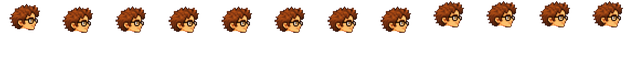
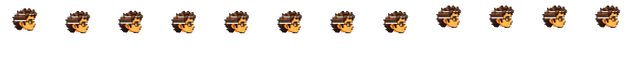
capas: cada cabeza con su hobbit (Adrián y Juan Pablo estaban cambiados)
Claude-Session: https://claude.ai/code/session_016LDX8s9ZoDhMCEDmCMU4bZ

diff --git a/public/index.html b/public/index.html
@@ -221,7 +221,7 @@ var SB_KEY = 'sb_publishable_1-eGqPkYOPKsW-ZEtUBo7A_16RQQGdK';
 var ATAJO = 'La Otra Comunidad';
 var STEPS_PER_KM = 1350, TOTAL_KM = 115;
 var LUGAR = {nombre:'Madrid', lat:40.43, lon:-3.81};
-var M = {"tramos": [[{"src": "assets/tramos/t1v_0.webp?v=162fa4d7", "y": -192, "v": 0.4, "hd": 3, "espejo": true}, {"src": "assets/tramos/t1v_1.webp?v=4642bb2a", "y": 209, "v": 1.0, "hd": 3, "espejo": true}], [{"src": "assets/tramos/t2v_0.webp?v=2ac7595f", "y": -192, "v": 0.4, "hd": 3, "espejo": true}, {"src": "assets/tramos/t2v_1.webp?v=07659e6a", "y": 209, "v": 1.0, "hd": 3, "espejo": true}], [{"src": "assets/tramos/t3v_0.webp?v=fb33aab2", "y": -192, "v": 0.4, "hd": 3, "espejo": true}, {"src": "assets/tramos/t3v_1.webp?v=42750449", "y": 209, "v": 1.0, "hd": 3, "espejo": true}], [{"src": "assets/tramos/t4v_0.webp?v=c2718a9c", "y": -192, "v": 0.4, "hd": 3, "espejo": true}, {"src": "assets/tramos/t4v_1.webp?v=0b370de7", "y": 209, "v": 1.0, "hd": 3, "espejo": true}], [{"src": "assets/tramos/t5_0.webp?v=f06aecc3", "y": 0, "v": 0.08}, {"src": "assets/tramos/t5_1.webp?v=f3abdd6c", "y": 31, "v": 0.3}, {"src": "assets/tramos/t5_2.webp?v=5110b3be", "y": 85, "v": 0.55}, {"src": "assets/tramos/t5_3.webp?v=a1aa4814", "y": 192, "v": 1.0}], [{"src": "assets/tramos/t6v_0.webp?v=380a0d06", "y": -192, "v": 0.4, "hd": 3, "espejo": true}, {"src": "assets/tramos/t6v_1.webp?v=ff66a92b", "y": 209, "v": 1.0, "hd": 3, "espejo": true}], [{"src": "assets/tramos/t7b_0.webp?v=4c93d6ac", "y": -192, "v": 0.4, "hd": 3, "espejo": true}, {"src": "assets/tramos/t7b_1.webp?v=16982fdd", "y": 210, "v": 1.0, "hd": 3, "espejo": true}], [{"src": "assets/tramos/t8b_0.webp?v=e0185a6c", "y": -192, "v": 0.4, "hd": 3, "espejo": true}, {"src": "assets/tramos/t8b_1.webp?v=5989f657", "y": 210, "v": 1.0, "hd": 3, "espejo": true}]], "arturo": ["assets/pj/arturo_normal.webp?v=7db8d380", "assets/pj/arturo_lluvia.webp?v=410e29f0", "assets/pj/arturo_noche.webp?v=a85f8b09", "assets/pj/arturo_calor.webp?v=5248314d"], "vecinos": ["assets/pj/vecino_1.webp?v=8c5299d1", "assets/pj/vecino_2.webp?v=0ad454f5", "assets/pj/vecino_3.webp?v=7460ffb8", "assets/pj/vecino_4.webp?v=a9dbcc5b"], "faces": "assets/pj/caras9.webp?v=749b1655", "logo": "assets/logo.webp?v=6e5698e6", "mj": {"pan": "assets/mj/zurron_pan.webp?v=eef983d0", "manta": "assets/mj/zurron_manta.webp?v=496c23db", "cuerda": "assets/mj/zurron_cuerda.webp?v=01c52897", "cantimplora": "assets/mj/zurron_cantimplora.webp?v=834316a1", "queso": "assets/mj/zurron_queso.webp?v=7897f985", "mapa": "assets/mj/zurron_mapa.webp?v=77a52314", "farol": "assets/mj/zurron_farol.webp?v=503f7f85", "pipa": "assets/mj/zurron_pipa.webp?v=ff72de42", "sillon": "assets/mj/zurron_sillon.webp?v=e2de97af", "reloj": "assets/mj/zurron_reloj.webp?v=f2e9850f", "cucharas": "assets/mj/zurron_cucharas.webp?v=ddf4903c", "paraguas": "assets/mj/zurron_paraguas.webp?v=29a8c29a", "jarron": "assets/mj/zurron_jarron.webp?v=0e426668", "libraco": "assets/mj/zurron_libraco.webp?v=d1d0c91f", "arbol": "assets/mj/arbol.webp?v=1d1e130a", "jinete1": "assets/mj/jinete1.webp?v=1bdb694e", "jinete2": "assets/mj/jinete2.webp?v=3dc1bbb4", "anillo": "assets/mj/anillo.webp?v=f785c169", "seta1": "assets/mj/seta1.webp?v=9166bdf3", "seta2": "assets/mj/seta2.webp?v=93212779", "seta3": "assets/mj/seta3.webp?v=a212aa81", "perro1": "assets/mj/perro1.webp?v=69bf8c3a", "perro2": "assets/mj/perro2.webp?v=b3a10435", "perro3": "assets/mj/perro3.webp?v=a5e4e2f7", "hoyo": "assets/mj/hoyo.webp?v=d29f43a1", "balsa1": "assets/mj/balsa1.webp?v=d45a7f5d", "balsa2": "assets/mj/balsa2.webp?v=d2719116", "rio": "assets/mj/rio.webp?v=aafc6b10", "muelle": "assets/mj/muelle.webp?v=592eaa57", "sombra": "assets/mj/sombra.webp?v=0652e012", "juncos": "assets/mj/juncos.webp?v=74e1fdc4"}, "papiro": "assets/papiro.webp?v=abe066ba", "andar": {"src": "assets/pj/arturo_andar.webp?v=7e62a290", "n": 6, "fw": 53.0, "h": 74}, "mapa": {"src": "assets/mapa.webp?v=9368dc78", "w": 1024, "h": 3796, "ruta": [[508, 3770], [508, 3761], [510, 3753], [514, 3737], [520, 3723], [529, 3712], [542, 3703], [556, 3696], [573, 3689], [592, 3681], [609, 3671], [622, 3660], [629, 3649], [634, 3636], [637, 3626], [639, 3617], [645, 3610], [654, 3602], [664, 3594], [672, 3584], [681, 3573], [689, 3561], [692, 3548], [690, 3534], [687, 3522], [677, 3509], [664, 3498], [650, 3488], [637, 3482], [621, 3476], [605, 3471], [589, 3467], [571, 3462], [553, 3458], [535, 3454], [518, 3450], [502, 3446], [487, 3441], [473, 3436], [459, 3430], [447, 3423], [438, 3414], [433, 3403], [434, 3391], [437, 3379], [441, 3367], [440, 3355], [433, 3344], [421, 3333], [407, 3323], [393, 3314], [383, 3304], [377, 3293], [379, 3280], [386, 3268], [398, 3256], [417, 3246], [437, 3238], [457, 3232], [476, 3225], [496, 3219], [516, 3212], [534, 3205], [549, 3194], [564, 3183], [578, 3172], [590, 3162], [602, 3154], [616, 3148], [631, 3142], [643, 3134], [652, 3125], [658, 3115], [657, 3104], [649, 3094], [638, 3084], [627, 3076], [614, 3068], [602, 3058], [596, 3047], [594, 3036], [597, 3025], [605, 3015], [619, 3008], [635, 3002], [651, 2993], [666, 2983], [677, 2971], [682, 2957], [682, 2942], [676, 2930], [665, 2918], [651, 2908], [636, 2900], [618, 2894], [600, 2888], [582, 2883], [563, 2878], [545, 2873], [527, 2869], [510, 2863], [496, 2856], [488, 2847], [483, 2843], [480, 2837], [500, 2784], [516, 2740], [516, 2690], [532, 2640], [544, 2590], [544, 2540], [552, 2496], [564, 2460], [544, 2420], [552, 2384], [532, 2344], [502, 2315], [501, 2285], [513, 2255], [538, 2225], [559, 2195], [563, 2165], [563, 2135], [525, 2105], [514, 2075], [515, 1955], [556, 1925], [583, 1895], [547, 1865], [504, 1835], [544, 1805], [553, 1775], [530, 1745], [530, 1715], [547, 1685], [579, 1625], [516, 1595], [510, 1565], [536, 1475], [574, 1445], [605, 1415], [582, 1385], [498, 1355], [531, 1295], [566, 1265], [554, 1235], [565, 1145], [595, 1005], [619, 975], [584, 945], [516, 855], [556, 825], [585, 795], [551, 765], [508, 735], [501, 705], [471, 645], [530, 615], [563, 585], [528, 465], [483, 435], [423, 405], [422, 375], [459, 345], [509, 315], [574, 255], [541, 105], [564, 75], [528, 45], [499, 15], [499, 0]], "lugares": [[0, "Bols\u00f3n Cerrado", 3760], [5, "Delagua", 3310], [15, "Colinas Verdes", 3160], [35, "Bosque Cerrado", 2900], [55, "Atajo", 2730], [75, "La granja", 2640], [90, "Calzada", 2530], [110, "Balsadera", 2475], [115, "Cricava", 2350], [120, "La Cerca", 2010], [130, "Bosque Viejo", 1800], [145, "El Tornasauce", 1530], [150, "Casa de Tom Bombadil", 1440], [175, "Quebradas de los T\u00famulos", 1250], [200, "Camino del Este", 1155], [210, "Bree", 1085], [225, "Bosque de Chet", 975], [250, "Pantanos de Moscagua", 915], [370, "Cima de los Vientos", 690], [530, "Puente \u00daltimo", 530], [600, "Landas de los Trolls", 410], [720, "Vado del Bruinen", 300], [740, "Rivendel", 70]]}, "equipo": {"capa": "assets/eq/capa.webp?v=0122b549", "sombrero": "assets/eq/sombrero.webp?v=f7dfac1a", "panuelo_sam": "assets/eq/panuelo_sam.webp?v=1a80a564", "cazo": "assets/eq/cazo.webp?v=22f7f48c", "broche": "assets/eq/broche.webp?v=6109e8ac", "panuelo_rojo": "assets/eq/panuelo_rojo.webp?v=fd15a308", "cantimplora_cinto": "assets/eq/cantimplora_cinto.webp?v=00c887d2", "pluma": "assets/eq/pluma.webp?v=1d6b2dd4", "gafas": "assets/eq/gafas.webp?v=0f0b85f1", "tiara": "assets/eq/tiara.webp?v=7de8e48f"}, "prologo": {"video": "assets/prologo/prologo.mp4?v=6f226176", "poster": "assets/prologo/poster.webp?v=0afee73e", "casa": "assets/prologo/casa.webp?v=e13a1dd5"}, "ilustraciones": ["assets/prologo/forja.webp?v=3a138e40", "assets/prologo/anillo.webp?v=0773b67f", "assets/prologo/guerra.webp?v=3dbb76a0", "assets/prologo/caido.webp?v=3f00fc99", "assets/prologo/rio.webp?v=f0525166", "assets/prologo/cueva.webp?v=53a6de1b", "assets/prologo/puerta.webp?v=9be18752", "assets/prologo/camino.webp?v=8554a997"], "npc": {"mago": ["assets/pj/mago_normal.webp?v=2dcb7716", "assets/pj/mago_lluvia.webp?v=3e964785", "assets/pj/mago_noche.webp?v=f6641a57", "assets/pj/mago_calor.webp?v=c90085e7"], "sombrero_azul": ["assets/pj/sombrero_azul_normal.webp?v=49dc044e", "assets/pj/sombrero_azul_lluvia.webp?v=dd90bf2a", "assets/pj/sombrero_azul_noche.webp?v=cf98f05d", "assets/pj/sombrero_azul_calor.webp?v=d65dd5f8"]}, "libro": {"0": "assets/libro/p1.webp?v=ef869ff9", "1": "assets/libro/p2.webp?v=6100887a", "2": "assets/libro/p3.webp?v=f87fd195", "3": "assets/libro/p4.webp?v=8c0c0014", "4": "assets/libro/p5.webp?v=a47588b7", "5": "assets/libro/p6.webp?v=7950004b", "6": "assets/libro/p7.webp?v=d7e44576", "7": "assets/libro/p8.webp?v=6766a419"}, "ropa": {"pantalon": "assets/pj/ropa_pantalon.webp?v=c61a7146", "capa": "assets/pj/ropa_capa.webp?v=e1faa8bf", "capa_f": "assets/pj/ropa_capa_f.webp?v=0c709b85", "capaFrame": {"fw": 84, "ox": -31}}, "props": {"senal": "assets/props/senal.webp?v=e7b2f572", "ovejas": "assets/props/ovejas.webp?v=311f376f", "carretilla": "assets/props/carretilla.webp?v=056e52f2", "piedra": "assets/props/piedra.webp?v=b27db386", "lena": "assets/props/lena.webp?v=4165f85f", "colmenas": "assets/props/colmenas.webp?v=b70b723c", "valla": "assets/props/valla.webp?v=4d295390", "setas": "assets/props/setas.webp?v=ce1dae4d", "pozo": "assets/props/pozo.webp?v=037c838e", "banco": "assets/props/banco.webp?v=c317202b", "zorro": "assets/props/zorro.webp?v=2bfaa8b8", "carro_heno": "assets/props/carro_heno.webp?v=d90f13e9"}, "escenas": [{"km": 9, "capas": [{"src": "assets/tramos/e09v_0.webp?v=9b272767", "y": -192, "v": 0.4, "hd": 3, "espejo": true}, {"src": "assets/tramos/e09v_1.webp?v=626f2e28", "y": 209, "v": 1.0, "hd": 3, "espejo": true}]}, {"km": 25, "capas": [{"src": "assets/tramos/e25_0.webp?v=f874360c", "y": -192, "v": 0.4, "hd": 3, "espejo": true}, {"src": "assets/tramos/e25_1.webp?v=dc8516e2", "y": 209, "v": 1.0, "hd": 3, "espejo": true}]}, {"km": 45, "capas": [{"src": "assets/tramos/e45_0.webp?v=0c496962", "y": -192, "v": 0.4, "hd": 3, "espejo": true}, {"src": "assets/tramos/e45_1.webp?v=f8b71963", "y": 209, "v": 1.0, "hd": 3, "espejo": true}]}, {"km": 65, "capas": [{"src": "assets/tramos/e65_0.webp?v=a730a4cb", "y": -192, "v": 0.4, "hd": 3, "espejo": true}, {"src": "assets/tramos/e65_1.webp?v=af390ea6", "y": 209, "v": 1.0, "hd": 3, "espejo": true}]}, {"km": 80, "capas": [{"src": "assets/tramos/e80_0.webp?v=2ae90a84", "y": -192, "v": 0.4, "hd": 3, "espejo": true}, {"src": "assets/tramos/e80_1.webp?v=656134e8", "y": 209, "v": 1.0, "hd": 3, "espejo": true}]}, {"km": 100, "capas": [{"src": "assets/tramos/e100_0.webp?v=96b4d4c3", "y": -192, "v": 0.4, "hd": 3, "espejo": true}, {"src": "assets/tramos/e100_1.webp?v=ff63ade0", "y": 209, "v": 1.0, "hd": 3, "espejo": true}]}, {"km": 113, "capas": [{"src": "assets/tramos/e113_0.webp?v=2f8c2840", "y": -192, "v": 0.4, "hd": 3, "espejo": true}, {"src": "assets/tramos/e113_1.webp?v=343cbb60", "y": 209, "v": 1.0, "hd": 3, "espejo": true}]}], "objetos": {"casa": "assets/mj/obj_casa.webp?v=11955867", "pipa": "assets/mj/obj_pipa.webp?v=9310f0ce", "hoja": "assets/mj/obj_hoja.webp?v=a4fb68a5", "estrella": "assets/mj/obj_estrella.webp?v=2718a702", "cayado": "assets/mj/obj_cayado.webp?v=346609ad", "cesta": "assets/mj/obj_cesta.webp?v=d1e05991", "farol": "assets/mj/obj_farol.webp?v=3c67590e", "balsa": "assets/mj/obj_balsa.webp?v=fcd81db0"}, "ropaIco": {"capa": "assets/eq/capa.webp?v=0122b549", "capa_verde": "assets/eq/capa_verde.webp?v=b5cc373a", "capa_granate": "assets/eq/capa_granate.webp?v=ec0bde53", "capa_gris": "assets/eq/capa_gris.webp?v=d2a75931", "pant_verde": "assets/eq/pant_verde.webp?v=1b3a8a49", "pant_azul": "assets/eq/pant_azul.webp?v=873e7563", "pant_gris": "assets/eq/pant_gris.webp?v=dc39d40e", "pant_mostaza": "assets/eq/pant_mostaza.webp?v=a53bb81c"}, "andarPJ": {"fer": {"src": "assets/pj/andar_fer.webp?v=a1960a01", "pantalon": "assets/pj/ropa_pantalon_fer.webp?v=ddc157ee", "capa": "assets/pj/ropa_capa_fer.webp?v=4ec3bc47", "capa_f": "assets/pj/ropa_capa_f_fer.webp?v=16a7a4cc", "n": 8, "ms": 160, "vel": 0.0356, "dx": [0, -3, 2, 2, -3, -3, 3, 4]}, "patri": {"src": "assets/pj/andar_patri.webp?v=6ce8bf24", "pantalon": "assets/pj/ropa_pantalon_patri.webp?v=3f92d97d", "capa": "assets/pj/ropa_capa_patri.webp?v=69ac1f75", "capa_f": "assets/pj/ropa_capa_f_patri.webp?v=a9eb8c68", "n": 8, "ms": 160, "vel": 0.0356, "dx": [0, -3, 2, 2, -3, -3, 3, 4]}, "juanpablo": {"src": "assets/pj/andar_juanpablo.webp?v=c89365f6", "pantalon": "assets/pj/ropa_pantalon_juanpablo.webp?v=eabcf1f7", "capa": "assets/pj/ropa_capa_juanpablo.webp?v=ef786ba2", "capa_f": "assets/pj/ropa_capa_f_juanpablo.webp?v=084549cb", "n": 8, "ms": 160, "vel": 0.0356, "dx": [0, 0, 0, 0, 0, 0, 0, 0]}, "arturo": {"src": "assets/pj/andar_arturo.webp?v=c15a4cbf", "pantalon": "assets/pj/ropa_pantalon_arturo.webp?v=5fb87995", "capa": "assets/pj/ropa_capa_arturo.webp?v=0658b58c", "capa_f": "assets/pj/ropa_capa_f_arturo.webp?v=f4b0b94a", "n": 8, "ms": 160, "vel": 0.0344, "dx": [0, -4, 0, 4, 0, -4, 0, 4]}, "edo": {"src": "assets/pj/andar_edo.webp?v=874feaf0", "pantalon": "assets/pj/ropa_pantalon_edo.webp?v=be0ca919", "capa": "assets/pj/ropa_capa_edo.webp?v=16ef3acf", "capa_f": "assets/pj/ropa_capa_f_edo.webp?v=50e3d11f", "n": 8, "ms": 160, "vel": 0.0344, "dx": [0, -4, 0, 4, 0, -4, 0, 4]}}, "menu": {"forja": "assets/menu/forja.webp?v=32eaa4c1", "anillo": "assets/menu/anillo.webp?v=2edff033", "chispas": {"src": "assets/menu/chispas.webp?v=7a0e8284", "n": 6, "fw": 125, "h": 262}, "herrero": {"src": "assets/menu/herrero.webp?v=8d4a16d2", "n": 4, "fw": 320, "h": 295}}, "ui": {"redondo": "assets/ui/redondo.webp?v=553a38ab", "redondo_on": "assets/ui/redondo_on.webp?v=d47c1e86", "largo": "assets/ui/largo.webp?v=21b6a8ab", "largo_on": "assets/ui/largo_on.webp?v=b4d3082f", "i_mapa": "assets/ui/i_mapa.webp?v=baf5a951", "i_libro": "assets/ui/i_libro.webp?v=65e306af", "i_comunidad": "assets/ui/i_comunidad.webp?v=ba394914", "i_zurron": "assets/ui/i_zurron.webp?v=801f3a01", "i_sync": "assets/ui/i_sync.webp?v=56462d84", "i_hoja": "assets/ui/i_hoja.webp?v=f8fe9299", "placa_pasos": "assets/ui/placa_pasos.webp?v=12bec8e1", "destellos": "assets/ui/destellos.webp?v=b74326dc", "fondo_menu": "assets/ui/fondo_menu.webp?v=0cf7211a", "hoja_menu": "assets/ui/hoja_menu.webp?v=82f13f93"}, "facesN": 9, "quietoPJ": {"fer": {"src": "assets/pj/quieto_fer.webp?v=2d287b87", "pantalon": "assets/pj/ropa_pantalon_quieto_fer.webp?v=2a5fa9ec", "capa": "assets/pj/ropa_capa_quieto_fer.webp?v=748a63a8", "capa_f": "assets/pj/ropa_capa_f_quieto_fer.webp?v=9d786b24", "n": 4, "ms": 450}, "patri": {"src": "assets/pj/quieto_patri.webp?v=e8935790", "pantalon": "assets/pj/ropa_pantalon_quieto_patri.webp?v=b4969e48", "capa": "assets/pj/ropa_capa_quieto_patri.webp?v=26634d11", "capa_f": "assets/pj/ropa_capa_f_quieto_patri.webp?v=328aff4d", "n": 4, "ms": 450}, "adrian": {"src": "assets/pj/quieto_adrian.webp?v=b81deb89", "pantalon": "assets/pj/ropa_pantalon_quieto_adrian.webp?v=5525cad1", "capa": "assets/pj/ropa_capa_quieto_adrian.webp?v=a22c0b8a", "capa_f": "assets/pj/ropa_capa_f_quieto_adrian.webp?v=6c51806e", "n": 4, "ms": 450}, "carlos": {"src": "assets/pj/quieto_carlos.webp?v=c5a30670", "pantalon": "assets/pj/ropa_pantalon_quieto_carlos.webp?v=b82e99a6", "capa": "assets/pj/ropa_capa_quieto_carlos.webp?v=5d3f98c6", "capa_f": "assets/pj/ropa_capa_f_quieto_carlos.webp?v=d8920044", "n": 4, "ms": 450}, "juanpablo": {"src": "assets/pj/quieto_juanpablo.webp?v=6e704838", "pantalon": "assets/pj/ropa_pantalon_quieto_juanpablo.webp?v=cd8fb44e", "capa": "assets/pj/ropa_capa_quieto_juanpablo.webp?v=c7daa765", "capa_f": "assets/pj/ropa_capa_f_quieto_juanpablo.webp?v=383cb623", "n": 4, "ms": 450}, "arturo": {"src": "assets/pj/quieto_arturo.webp?v=a137794f", "pantalon": "assets/pj/ropa_pantalon_quieto_arturo.webp?v=41e5d86c", "capa": "assets/pj/ropa_capa_quieto_arturo.webp?v=4d687a5b", "capa_f": "assets/pj/ropa_capa_f_quieto_arturo.webp?v=31b81915", "n": 4, "ms": 450}, "edo": {"src": "assets/pj/quieto_edo.webp?v=25a809fa", "pantalon": "assets/pj/ropa_pantalon_quieto_edo.webp?v=ec1ecdb7", "capa": "assets/pj/ropa_capa_quieto_edo.webp?v=f5d0127d", "capa_f": "assets/pj/ropa_capa_f_quieto_edo.webp?v=ff69cc07", "n": 4, "ms": 450}}, "fp": [{"tramo": 3, "fondo": "assets/fp/bosque_fondo.webp?v=d94309cc", "delante": "assets/fp/bosque_delante.webp?v=4903fead", "manos": {"src": "assets/fp/manos.webp?v=7ba225f5", "n": 4, "fw": 325, "h": 434}, "fuga": [0.5, 0.56], "luces": [[0.47, 0.565], [0.51, 0.548], [0.545, 0.565], [0.455, 0.575]], "hasta": 45}], "escenaElfos": ["assets/escenas/elfos1.webp?v=821cfc4d", "assets/escenas/elfos2.webp?v=a89595ed", "assets/escenas/elfos3.webp?v=2f3b37c6"], "entreactos": {"1": {"video": "assets/entreactos/acto1.mp4?v=24d497d1", "poster": "assets/entreactos/acto1.webp?v=4f4a3739"}}, "capas": {"capas": {"cuerpo": "assets/pj/capas/cuerpo.webp?v=66200e3b", "capa": "assets/pj/capas/capa.webp?v=2d14e53d", "pantalon": "assets/pj/capas/pantalon.webp?v=fc330ced", "mochila": "assets/pj/capas/mochila.webp?v=8a00b540", "cantimplora": "assets/pj/capas/cantimplora.webp?v=6987245d"}, "cabezas": {"arturo": "assets/pj/capas/cab_arturo.webp?v=56e048df", "fer": "assets/pj/capas/cab_fer.webp?v=4943aeec", "patri": "assets/pj/capas/cab_patri.webp?v=c59c0352", "edo": "assets/pj/capas/cab_edo.webp?v=a88692df", "carlos": "assets/pj/capas/cab_carlos.webp?v=580e91e3", "porru": "assets/pj/capas/cab_porru.webp?v=55a941b5", "adrian": "assets/pj/capas/cab_adrian.webp?v=92d43bfb", "rodri": "assets/pj/capas/cab_rodri.webp?v=952eeaa0", "juanpablo": "assets/pj/capas/cab_juanpablo.webp?v=7e29d59d"}}};
+var M = {"tramos": [[{"src": "assets/tramos/t1v_0.webp?v=162fa4d7", "y": -192, "v": 0.4, "hd": 3, "espejo": true}, {"src": "assets/tramos/t1v_1.webp?v=4642bb2a", "y": 209, "v": 1.0, "hd": 3, "espejo": true}], [{"src": "assets/tramos/t2v_0.webp?v=2ac7595f", "y": -192, "v": 0.4, "hd": 3, "espejo": true}, {"src": "assets/tramos/t2v_1.webp?v=07659e6a", "y": 209, "v": 1.0, "hd": 3, "espejo": true}], [{"src": "assets/tramos/t3v_0.webp?v=fb33aab2", "y": -192, "v": 0.4, "hd": 3, "espejo": true}, {"src": "assets/tramos/t3v_1.webp?v=42750449", "y": 209, "v": 1.0, "hd": 3, "espejo": true}], [{"src": "assets/tramos/t4v_0.webp?v=c2718a9c", "y": -192, "v": 0.4, "hd": 3, "espejo": true}, {"src": "assets/tramos/t4v_1.webp?v=0b370de7", "y": 209, "v": 1.0, "hd": 3, "espejo": true}], [{"src": "assets/tramos/t5_0.webp?v=f06aecc3", "y": 0, "v": 0.08}, {"src": "assets/tramos/t5_1.webp?v=f3abdd6c", "y": 31, "v": 0.3}, {"src": "assets/tramos/t5_2.webp?v=5110b3be", "y": 85, "v": 0.55}, {"src": "assets/tramos/t5_3.webp?v=a1aa4814", "y": 192, "v": 1.0}], [{"src": "assets/tramos/t6v_0.webp?v=380a0d06", "y": -192, "v": 0.4, "hd": 3, "espejo": true}, {"src": "assets/tramos/t6v_1.webp?v=ff66a92b", "y": 209, "v": 1.0, "hd": 3, "espejo": true}], [{"src": "assets/tramos/t7b_0.webp?v=4c93d6ac", "y": -192, "v": 0.4, "hd": 3, "espejo": true}, {"src": "assets/tramos/t7b_1.webp?v=16982fdd", "y": 210, "v": 1.0, "hd": 3, "espejo": true}], [{"src": "assets/tramos/t8b_0.webp?v=e0185a6c", "y": -192, "v": 0.4, "hd": 3, "espejo": true}, {"src": "assets/tramos/t8b_1.webp?v=5989f657", "y": 210, "v": 1.0, "hd": 3, "espejo": true}]], "arturo": ["assets/pj/arturo_normal.webp?v=7db8d380", "assets/pj/arturo_lluvia.webp?v=410e29f0", "assets/pj/arturo_noche.webp?v=a85f8b09", "assets/pj/arturo_calor.webp?v=5248314d"], "vecinos": ["assets/pj/vecino_1.webp?v=8c5299d1", "assets/pj/vecino_2.webp?v=0ad454f5", "assets/pj/vecino_3.webp?v=7460ffb8", "assets/pj/vecino_4.webp?v=a9dbcc5b"], "faces": "assets/pj/caras9.webp?v=749b1655", "logo": "assets/logo.webp?v=6e5698e6", "mj": {"pan": "assets/mj/zurron_pan.webp?v=eef983d0", "manta": "assets/mj/zurron_manta.webp?v=496c23db", "cuerda": "assets/mj/zurron_cuerda.webp?v=01c52897", "cantimplora": "assets/mj/zurron_cantimplora.webp?v=834316a1", "queso": "assets/mj/zurron_queso.webp?v=7897f985", "mapa": "assets/mj/zurron_mapa.webp?v=77a52314", "farol": "assets/mj/zurron_farol.webp?v=503f7f85", "pipa": "assets/mj/zurron_pipa.webp?v=ff72de42", "sillon": "assets/mj/zurron_sillon.webp?v=e2de97af", "reloj": "assets/mj/zurron_reloj.webp?v=f2e9850f", "cucharas": "assets/mj/zurron_cucharas.webp?v=ddf4903c", "paraguas": "assets/mj/zurron_paraguas.webp?v=29a8c29a", "jarron": "assets/mj/zurron_jarron.webp?v=0e426668", "libraco": "assets/mj/zurron_libraco.webp?v=d1d0c91f", "arbol": "assets/mj/arbol.webp?v=1d1e130a", "jinete1": "assets/mj/jinete1.webp?v=1bdb694e", "jinete2": "assets/mj/jinete2.webp?v=3dc1bbb4", "anillo": "assets/mj/anillo.webp?v=f785c169", "seta1": "assets/mj/seta1.webp?v=9166bdf3", "seta2": "assets/mj/seta2.webp?v=93212779", "seta3": "assets/mj/seta3.webp?v=a212aa81", "perro1": "assets/mj/perro1.webp?v=69bf8c3a", "perro2": "assets/mj/perro2.webp?v=b3a10435", "perro3": "assets/mj/perro3.webp?v=a5e4e2f7", "hoyo": "assets/mj/hoyo.webp?v=d29f43a1", "balsa1": "assets/mj/balsa1.webp?v=d45a7f5d", "balsa2": "assets/mj/balsa2.webp?v=d2719116", "rio": "assets/mj/rio.webp?v=aafc6b10", "muelle": "assets/mj/muelle.webp?v=592eaa57", "sombra": "assets/mj/sombra.webp?v=0652e012", "juncos": "assets/mj/juncos.webp?v=74e1fdc4"}, "papiro": "assets/papiro.webp?v=abe066ba", "andar": {"src": "assets/pj/arturo_andar.webp?v=7e62a290", "n": 6, "fw": 53.0, "h": 74}, "mapa": {"src": "assets/mapa.webp?v=9368dc78", "w": 1024, "h": 3796, "ruta": [[508, 3770], [508, 3761], [510, 3753], [514, 3737], [520, 3723], [529, 3712], [542, 3703], [556, 3696], [573, 3689], [592, 3681], [609, 3671], [622, 3660], [629, 3649], [634, 3636], [637, 3626], [639, 3617], [645, 3610], [654, 3602], [664, 3594], [672, 3584], [681, 3573], [689, 3561], [692, 3548], [690, 3534], [687, 3522], [677, 3509], [664, 3498], [650, 3488], [637, 3482], [621, 3476], [605, 3471], [589, 3467], [571, 3462], [553, 3458], [535, 3454], [518, 3450], [502, 3446], [487, 3441], [473, 3436], [459, 3430], [447, 3423], [438, 3414], [433, 3403], [434, 3391], [437, 3379], [441, 3367], [440, 3355], [433, 3344], [421, 3333], [407, 3323], [393, 3314], [383, 3304], [377, 3293], [379, 3280], [386, 3268], [398, 3256], [417, 3246], [437, 3238], [457, 3232], [476, 3225], [496, 3219], [516, 3212], [534, 3205], [549, 3194], [564, 3183], [578, 3172], [590, 3162], [602, 3154], [616, 3148], [631, 3142], [643, 3134], [652, 3125], [658, 3115], [657, 3104], [649, 3094], [638, 3084], [627, 3076], [614, 3068], [602, 3058], [596, 3047], [594, 3036], [597, 3025], [605, 3015], [619, 3008], [635, 3002], [651, 2993], [666, 2983], [677, 2971], [682, 2957], [682, 2942], [676, 2930], [665, 2918], [651, 2908], [636, 2900], [618, 2894], [600, 2888], [582, 2883], [563, 2878], [545, 2873], [527, 2869], [510, 2863], [496, 2856], [488, 2847], [483, 2843], [480, 2837], [500, 2784], [516, 2740], [516, 2690], [532, 2640], [544, 2590], [544, 2540], [552, 2496], [564, 2460], [544, 2420], [552, 2384], [532, 2344], [502, 2315], [501, 2285], [513, 2255], [538, 2225], [559, 2195], [563, 2165], [563, 2135], [525, 2105], [514, 2075], [515, 1955], [556, 1925], [583, 1895], [547, 1865], [504, 1835], [544, 1805], [553, 1775], [530, 1745], [530, 1715], [547, 1685], [579, 1625], [516, 1595], [510, 1565], [536, 1475], [574, 1445], [605, 1415], [582, 1385], [498, 1355], [531, 1295], [566, 1265], [554, 1235], [565, 1145], [595, 1005], [619, 975], [584, 945], [516, 855], [556, 825], [585, 795], [551, 765], [508, 735], [501, 705], [471, 645], [530, 615], [563, 585], [528, 465], [483, 435], [423, 405], [422, 375], [459, 345], [509, 315], [574, 255], [541, 105], [564, 75], [528, 45], [499, 15], [499, 0]], "lugares": [[0, "Bols\u00f3n Cerrado", 3760], [5, "Delagua", 3310], [15, "Colinas Verdes", 3160], [35, "Bosque Cerrado", 2900], [55, "Atajo", 2730], [75, "La granja", 2640], [90, "Calzada", 2530], [110, "Balsadera", 2475], [115, "Cricava", 2350], [120, "La Cerca", 2010], [130, "Bosque Viejo", 1800], [145, "El Tornasauce", 1530], [150, "Casa de Tom Bombadil", 1440], [175, "Quebradas de los T\u00famulos", 1250], [200, "Camino del Este", 1155], [210, "Bree", 1085], [225, "Bosque de Chet", 975], [250, "Pantanos de Moscagua", 915], [370, "Cima de los Vientos", 690], [530, "Puente \u00daltimo", 530], [600, "Landas de los Trolls", 410], [720, "Vado del Bruinen", 300], [740, "Rivendel", 70]]}, "equipo": {"capa": "assets/eq/capa.webp?v=0122b549", "sombrero": "assets/eq/sombrero.webp?v=f7dfac1a", "panuelo_sam": "assets/eq/panuelo_sam.webp?v=1a80a564", "cazo": "assets/eq/cazo.webp?v=22f7f48c", "broche": "assets/eq/broche.webp?v=6109e8ac", "panuelo_rojo": "assets/eq/panuelo_rojo.webp?v=fd15a308", "cantimplora_cinto": "assets/eq/cantimplora_cinto.webp?v=00c887d2", "pluma": "assets/eq/pluma.webp?v=1d6b2dd4", "gafas": "assets/eq/gafas.webp?v=0f0b85f1", "tiara": "assets/eq/tiara.webp?v=7de8e48f"}, "prologo": {"video": "assets/prologo/prologo.mp4?v=6f226176", "poster": "assets/prologo/poster.webp?v=0afee73e", "casa": "assets/prologo/casa.webp?v=e13a1dd5"}, "ilustraciones": ["assets/prologo/forja.webp?v=3a138e40", "assets/prologo/anillo.webp?v=0773b67f", "assets/prologo/guerra.webp?v=3dbb76a0", "assets/prologo/caido.webp?v=3f00fc99", "assets/prologo/rio.webp?v=f0525166", "assets/prologo/cueva.webp?v=53a6de1b", "assets/prologo/puerta.webp?v=9be18752", "assets/prologo/camino.webp?v=8554a997"], "npc": {"mago": ["assets/pj/mago_normal.webp?v=2dcb7716", "assets/pj/mago_lluvia.webp?v=3e964785", "assets/pj/mago_noche.webp?v=f6641a57", "assets/pj/mago_calor.webp?v=c90085e7"], "sombrero_azul": ["assets/pj/sombrero_azul_normal.webp?v=49dc044e", "assets/pj/sombrero_azul_lluvia.webp?v=dd90bf2a", "assets/pj/sombrero_azul_noche.webp?v=cf98f05d", "assets/pj/sombrero_azul_calor.webp?v=d65dd5f8"]}, "libro": {"0": "assets/libro/p1.webp?v=ef869ff9", "1": "assets/libro/p2.webp?v=6100887a", "2": "assets/libro/p3.webp?v=f87fd195", "3": "assets/libro/p4.webp?v=8c0c0014", "4": "assets/libro/p5.webp?v=a47588b7", "5": "assets/libro/p6.webp?v=7950004b", "6": "assets/libro/p7.webp?v=d7e44576", "7": "assets/libro/p8.webp?v=6766a419"}, "ropa": {"pantalon": "assets/pj/ropa_pantalon.webp?v=c61a7146", "capa": "assets/pj/ropa_capa.webp?v=e1faa8bf", "capa_f": "assets/pj/ropa_capa_f.webp?v=0c709b85", "capaFrame": {"fw": 84, "ox": -31}}, "props": {"senal": "assets/props/senal.webp?v=e7b2f572", "ovejas": "assets/props/ovejas.webp?v=311f376f", "carretilla": "assets/props/carretilla.webp?v=056e52f2", "piedra": "assets/props/piedra.webp?v=b27db386", "lena": "assets/props/lena.webp?v=4165f85f", "colmenas": "assets/props/colmenas.webp?v=b70b723c", "valla": "assets/props/valla.webp?v=4d295390", "setas": "assets/props/setas.webp?v=ce1dae4d", "pozo": "assets/props/pozo.webp?v=037c838e", "banco": "assets/props/banco.webp?v=c317202b", "zorro": "assets/props/zorro.webp?v=2bfaa8b8", "carro_heno": "assets/props/carro_heno.webp?v=d90f13e9"}, "escenas": [{"km": 9, "capas": [{"src": "assets/tramos/e09v_0.webp?v=9b272767", "y": -192, "v": 0.4, "hd": 3, "espejo": true}, {"src": "assets/tramos/e09v_1.webp?v=626f2e28", "y": 209, "v": 1.0, "hd": 3, "espejo": true}]}, {"km": 25, "capas": [{"src": "assets/tramos/e25_0.webp?v=f874360c", "y": -192, "v": 0.4, "hd": 3, "espejo": true}, {"src": "assets/tramos/e25_1.webp?v=dc8516e2", "y": 209, "v": 1.0, "hd": 3, "espejo": true}]}, {"km": 45, "capas": [{"src": "assets/tramos/e45_0.webp?v=0c496962", "y": -192, "v": 0.4, "hd": 3, "espejo": true}, {"src": "assets/tramos/e45_1.webp?v=f8b71963", "y": 209, "v": 1.0, "hd": 3, "espejo": true}]}, {"km": 65, "capas": [{"src": "assets/tramos/e65_0.webp?v=a730a4cb", "y": -192, "v": 0.4, "hd": 3, "espejo": true}, {"src": "assets/tramos/e65_1.webp?v=af390ea6", "y": 209, "v": 1.0, "hd": 3, "espejo": true}]}, {"km": 80, "capas": [{"src": "assets/tramos/e80_0.webp?v=2ae90a84", "y": -192, "v": 0.4, "hd": 3, "espejo": true}, {"src": "assets/tramos/e80_1.webp?v=656134e8", "y": 209, "v": 1.0, "hd": 3, "espejo": true}]}, {"km": 100, "capas": [{"src": "assets/tramos/e100_0.webp?v=96b4d4c3", "y": -192, "v": 0.4, "hd": 3, "espejo": true}, {"src": "assets/tramos/e100_1.webp?v=ff63ade0", "y": 209, "v": 1.0, "hd": 3, "espejo": true}]}, {"km": 113, "capas": [{"src": "assets/tramos/e113_0.webp?v=2f8c2840", "y": -192, "v": 0.4, "hd": 3, "espejo": true}, {"src": "assets/tramos/e113_1.webp?v=343cbb60", "y": 209, "v": 1.0, "hd": 3, "espejo": true}]}], "objetos": {"casa": "assets/mj/obj_casa.webp?v=11955867", "pipa": "assets/mj/obj_pipa.webp?v=9310f0ce", "hoja": "assets/mj/obj_hoja.webp?v=a4fb68a5", "estrella": "assets/mj/obj_estrella.webp?v=2718a702", "cayado": "assets/mj/obj_cayado.webp?v=346609ad", "cesta": "assets/mj/obj_cesta.webp?v=d1e05991", "farol": "assets/mj/obj_farol.webp?v=3c67590e", "balsa": "assets/mj/obj_balsa.webp?v=fcd81db0"}, "ropaIco": {"capa": "assets/eq/capa.webp?v=0122b549", "capa_verde": "assets/eq/capa_verde.webp?v=b5cc373a", "capa_granate": "assets/eq/capa_granate.webp?v=ec0bde53", "capa_gris": "assets/eq/capa_gris.webp?v=d2a75931", "pant_verde": "assets/eq/pant_verde.webp?v=1b3a8a49", "pant_azul": "assets/eq/pant_azul.webp?v=873e7563", "pant_gris": "assets/eq/pant_gris.webp?v=dc39d40e", "pant_mostaza": "assets/eq/pant_mostaza.webp?v=a53bb81c"}, "andarPJ": {"fer": {"src": "assets/pj/andar_fer.webp?v=a1960a01", "pantalon": "assets/pj/ropa_pantalon_fer.webp?v=ddc157ee", "capa": "assets/pj/ropa_capa_fer.webp?v=4ec3bc47", "capa_f": "assets/pj/ropa_capa_f_fer.webp?v=16a7a4cc", "n": 8, "ms": 160, "vel": 0.0356, "dx": [0, -3, 2, 2, -3, -3, 3, 4]}, "patri": {"src": "assets/pj/andar_patri.webp?v=6ce8bf24", "pantalon": "assets/pj/ropa_pantalon_patri.webp?v=3f92d97d", "capa": "assets/pj/ropa_capa_patri.webp?v=69ac1f75", "capa_f": "assets/pj/ropa_capa_f_patri.webp?v=a9eb8c68", "n": 8, "ms": 160, "vel": 0.0356, "dx": [0, -3, 2, 2, -3, -3, 3, 4]}, "juanpablo": {"src": "assets/pj/andar_juanpablo.webp?v=c89365f6", "pantalon": "assets/pj/ropa_pantalon_juanpablo.webp?v=eabcf1f7", "capa": "assets/pj/ropa_capa_juanpablo.webp?v=ef786ba2", "capa_f": "assets/pj/ropa_capa_f_juanpablo.webp?v=084549cb", "n": 8, "ms": 160, "vel": 0.0356, "dx": [0, 0, 0, 0, 0, 0, 0, 0]}, "arturo": {"src": "assets/pj/andar_arturo.webp?v=c15a4cbf", "pantalon": "assets/pj/ropa_pantalon_arturo.webp?v=5fb87995", "capa": "assets/pj/ropa_capa_arturo.webp?v=0658b58c", "capa_f": "assets/pj/ropa_capa_f_arturo.webp?v=f4b0b94a", "n": 8, "ms": 160, "vel": 0.0344, "dx": [0, -4, 0, 4, 0, -4, 0, 4]}, "edo": {"src": "assets/pj/andar_edo.webp?v=874feaf0", "pantalon": "assets/pj/ropa_pantalon_edo.webp?v=be0ca919", "capa": "assets/pj/ropa_capa_edo.webp?v=16ef3acf", "capa_f": "assets/pj/ropa_capa_f_edo.webp?v=50e3d11f", "n": 8, "ms": 160, "vel": 0.0344, "dx": [0, -4, 0, 4, 0, -4, 0, 4]}}, "menu": {"forja": "assets/menu/forja.webp?v=32eaa4c1", "anillo": "assets/menu/anillo.webp?v=2edff033", "chispas": {"src": "assets/menu/chispas.webp?v=7a0e8284", "n": 6, "fw": 125, "h": 262}, "herrero": {"src": "assets/menu/herrero.webp?v=8d4a16d2", "n": 4, "fw": 320, "h": 295}}, "ui": {"redondo": "assets/ui/redondo.webp?v=553a38ab", "redondo_on": "assets/ui/redondo_on.webp?v=d47c1e86", "largo": "assets/ui/largo.webp?v=21b6a8ab", "largo_on": "assets/ui/largo_on.webp?v=b4d3082f", "i_mapa": "assets/ui/i_mapa.webp?v=baf5a951", "i_libro": "assets/ui/i_libro.webp?v=65e306af", "i_comunidad": "assets/ui/i_comunidad.webp?v=ba394914", "i_zurron": "assets/ui/i_zurron.webp?v=801f3a01", "i_sync": "assets/ui/i_sync.webp?v=56462d84", "i_hoja": "assets/ui/i_hoja.webp?v=f8fe9299", "placa_pasos": "assets/ui/placa_pasos.webp?v=12bec8e1", "destellos": "assets/ui/destellos.webp?v=b74326dc", "fondo_menu": "assets/ui/fondo_menu.webp?v=0cf7211a", "hoja_menu": "assets/ui/hoja_menu.webp?v=82f13f93"}, "facesN": 9, "quietoPJ": {"fer": {"src": "assets/pj/quieto_fer.webp?v=2d287b87", "pantalon": "assets/pj/ropa_pantalon_quieto_fer.webp?v=2a5fa9ec", "capa": "assets/pj/ropa_capa_quieto_fer.webp?v=748a63a8", "capa_f": "assets/pj/ropa_capa_f_quieto_fer.webp?v=9d786b24", "n": 4, "ms": 450}, "patri": {"src": "assets/pj/quieto_patri.webp?v=e8935790", "pantalon": "assets/pj/ropa_pantalon_quieto_patri.webp?v=b4969e48", "capa": "assets/pj/ropa_capa_quieto_patri.webp?v=26634d11", "capa_f": "assets/pj/ropa_capa_f_quieto_patri.webp?v=328aff4d", "n": 4, "ms": 450}, "adrian": {"src": "assets/pj/quieto_adrian.webp?v=b81deb89", "pantalon": "assets/pj/ropa_pantalon_quieto_adrian.webp?v=5525cad1", "capa": "assets/pj/ropa_capa_quieto_adrian.webp?v=a22c0b8a", "capa_f": "assets/pj/ropa_capa_f_quieto_adrian.webp?v=6c51806e", "n": 4, "ms": 450}, "carlos": {"src": "assets/pj/quieto_carlos.webp?v=c5a30670", "pantalon": "assets/pj/ropa_pantalon_quieto_carlos.webp?v=b82e99a6", "capa": "assets/pj/ropa_capa_quieto_carlos.webp?v=5d3f98c6", "capa_f": "assets/pj/ropa_capa_f_quieto_carlos.webp?v=d8920044", "n": 4, "ms": 450}, "juanpablo": {"src": "assets/pj/quieto_juanpablo.webp?v=6e704838", "pantalon": "assets/pj/ropa_pantalon_quieto_juanpablo.webp?v=cd8fb44e", "capa": "assets/pj/ropa_capa_quieto_juanpablo.webp?v=c7daa765", "capa_f": "assets/pj/ropa_capa_f_quieto_juanpablo.webp?v=383cb623", "n": 4, "ms": 450}, "arturo": {"src": "assets/pj/quieto_arturo.webp?v=a137794f", "pantalon": "assets/pj/ropa_pantalon_quieto_arturo.webp?v=41e5d86c", "capa": "assets/pj/ropa_capa_quieto_arturo.webp?v=4d687a5b", "capa_f": "assets/pj/ropa_capa_f_quieto_arturo.webp?v=31b81915", "n": 4, "ms": 450}, "edo": {"src": "assets/pj/quieto_edo.webp?v=25a809fa", "pantalon": "assets/pj/ropa_pantalon_quieto_edo.webp?v=ec1ecdb7", "capa": "assets/pj/ropa_capa_quieto_edo.webp?v=f5d0127d", "capa_f": "assets/pj/ropa_capa_f_quieto_edo.webp?v=ff69cc07", "n": 4, "ms": 450}}, "fp": [{"tramo": 3, "fondo": "assets/fp/bosque_fondo.webp?v=d94309cc", "delante": "assets/fp/bosque_delante.webp?v=4903fead", "manos": {"src": "assets/fp/manos.webp?v=7ba225f5", "n": 4, "fw": 325, "h": 434}, "fuga": [0.5, 0.56], "luces": [[0.47, 0.565], [0.51, 0.548], [0.545, 0.565], [0.455, 0.575]], "hasta": 45}], "escenaElfos": ["assets/escenas/elfos1.webp?v=821cfc4d", "assets/escenas/elfos2.webp?v=a89595ed", "assets/escenas/elfos3.webp?v=2f3b37c6"], "entreactos": {"1": {"video": "assets/entreactos/acto1.mp4?v=24d497d1", "poster": "assets/entreactos/acto1.webp?v=4f4a3739"}}, "capas": {"capas": {"cuerpo": "assets/pj/capas/cuerpo.webp?v=66200e3b", "capa": "assets/pj/capas/capa.webp?v=2d14e53d", "pantalon": "assets/pj/capas/pantalon.webp?v=fc330ced", "mochila": "assets/pj/capas/mochila.webp?v=8a00b540", "cantimplora": "assets/pj/capas/cantimplora.webp?v=6987245d"}, "cabezas": {"arturo": "assets/pj/capas/cab_arturo.webp?v=56e048df", "fer": "assets/pj/capas/cab_fer.webp?v=4943aeec", "patri": "assets/pj/capas/cab_patri.webp?v=c59c0352", "edo": "assets/pj/capas/cab_edo.webp?v=a88692df", "carlos": "assets/pj/capas/cab_carlos.webp?v=580e91e3", "porru": "assets/pj/capas/cab_porru.webp?v=55a941b5", "adrian": "assets/pj/capas/cab_adrian.webp?v=7e29d59d", "rodri": "assets/pj/capas/cab_rodri.webp?v=952eeaa0", "juanpablo": "assets/pj/capas/cab_juanpablo.webp?v=92d43bfb"}}};
 var FACE = {porru:0, adrian:1, carlos:2, fer:3, edo:4, rodri:5, arturo:6, patri:7, juanpablo:8};
 var FACEN = M.facesN||7;
 var ICON = {
